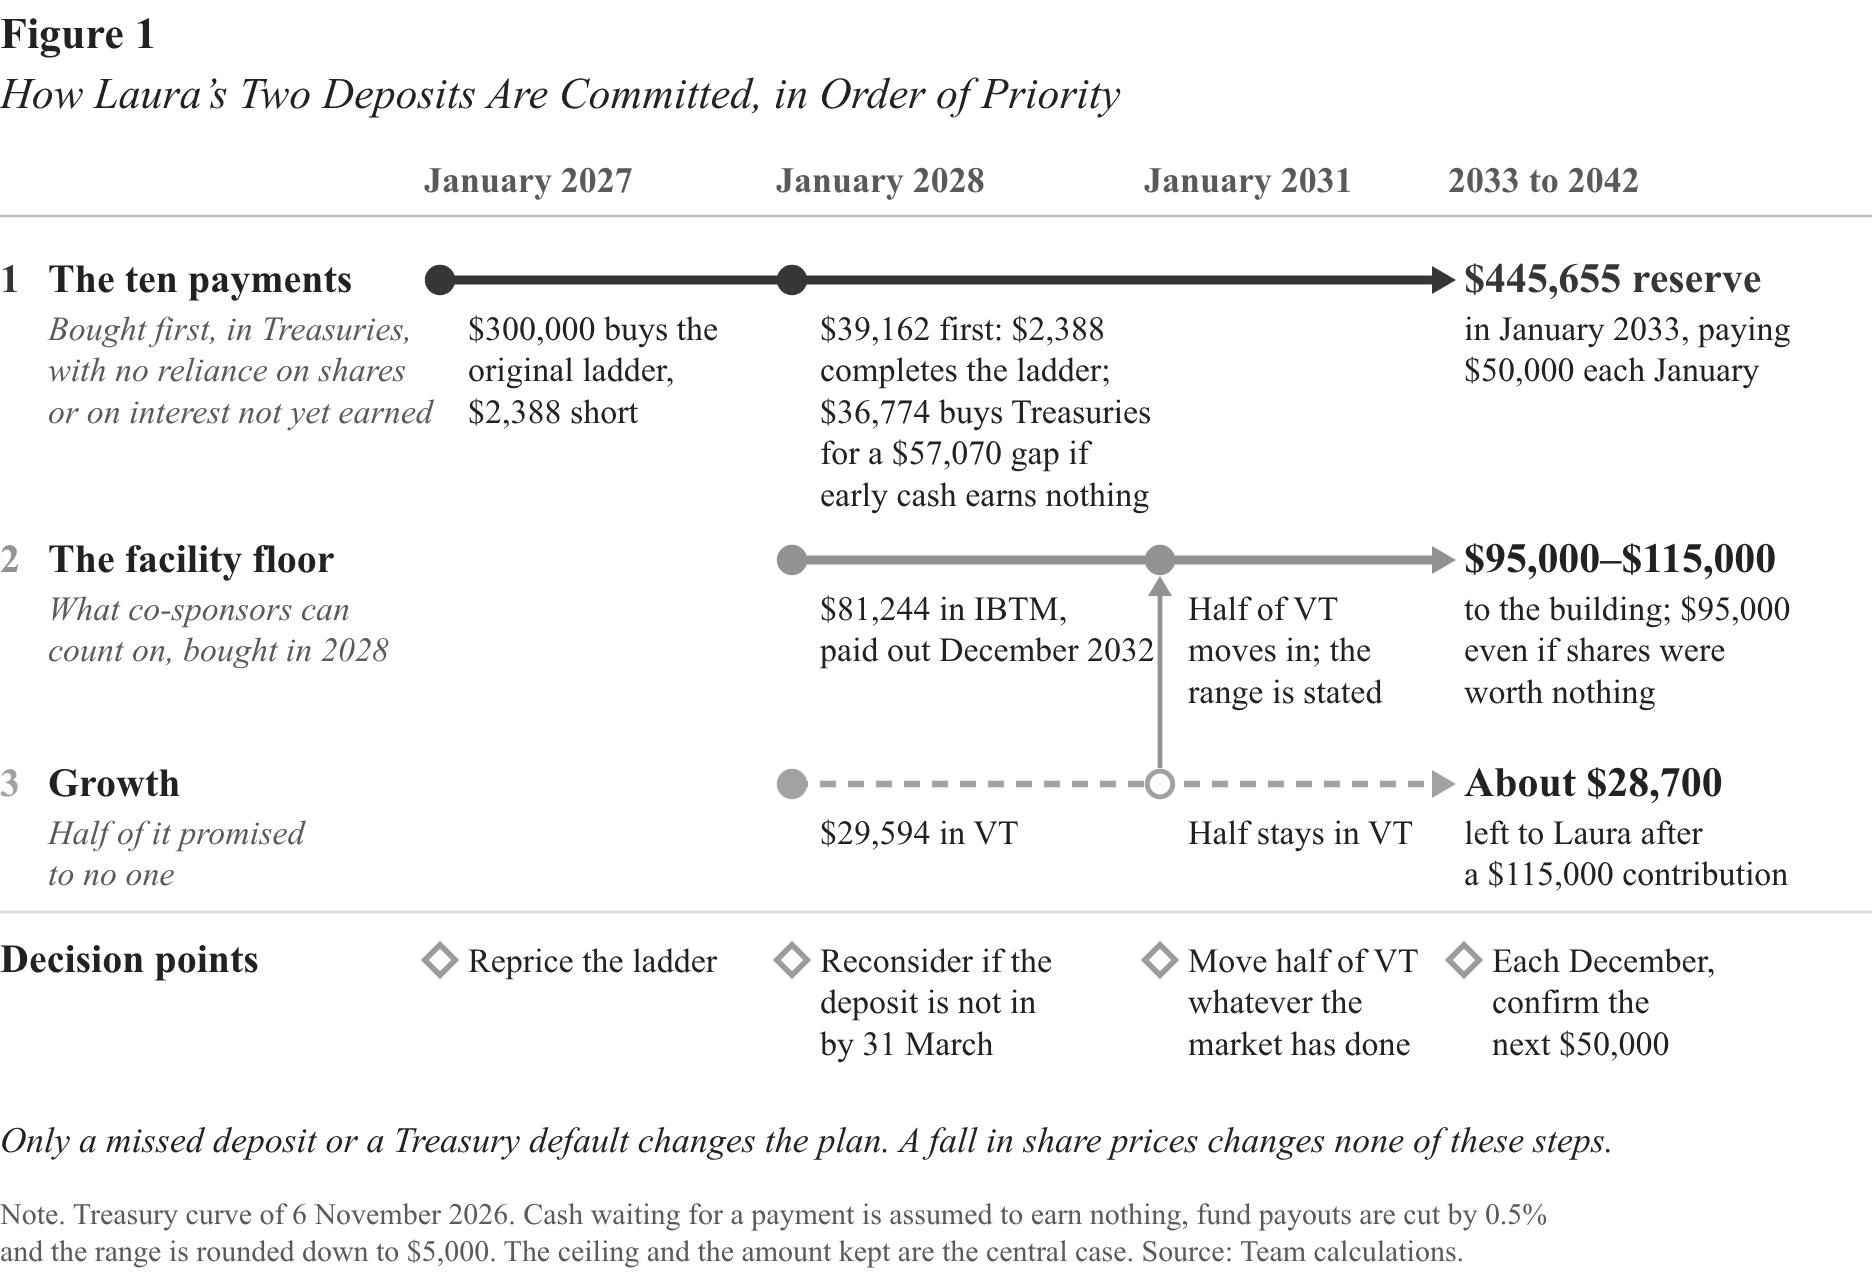
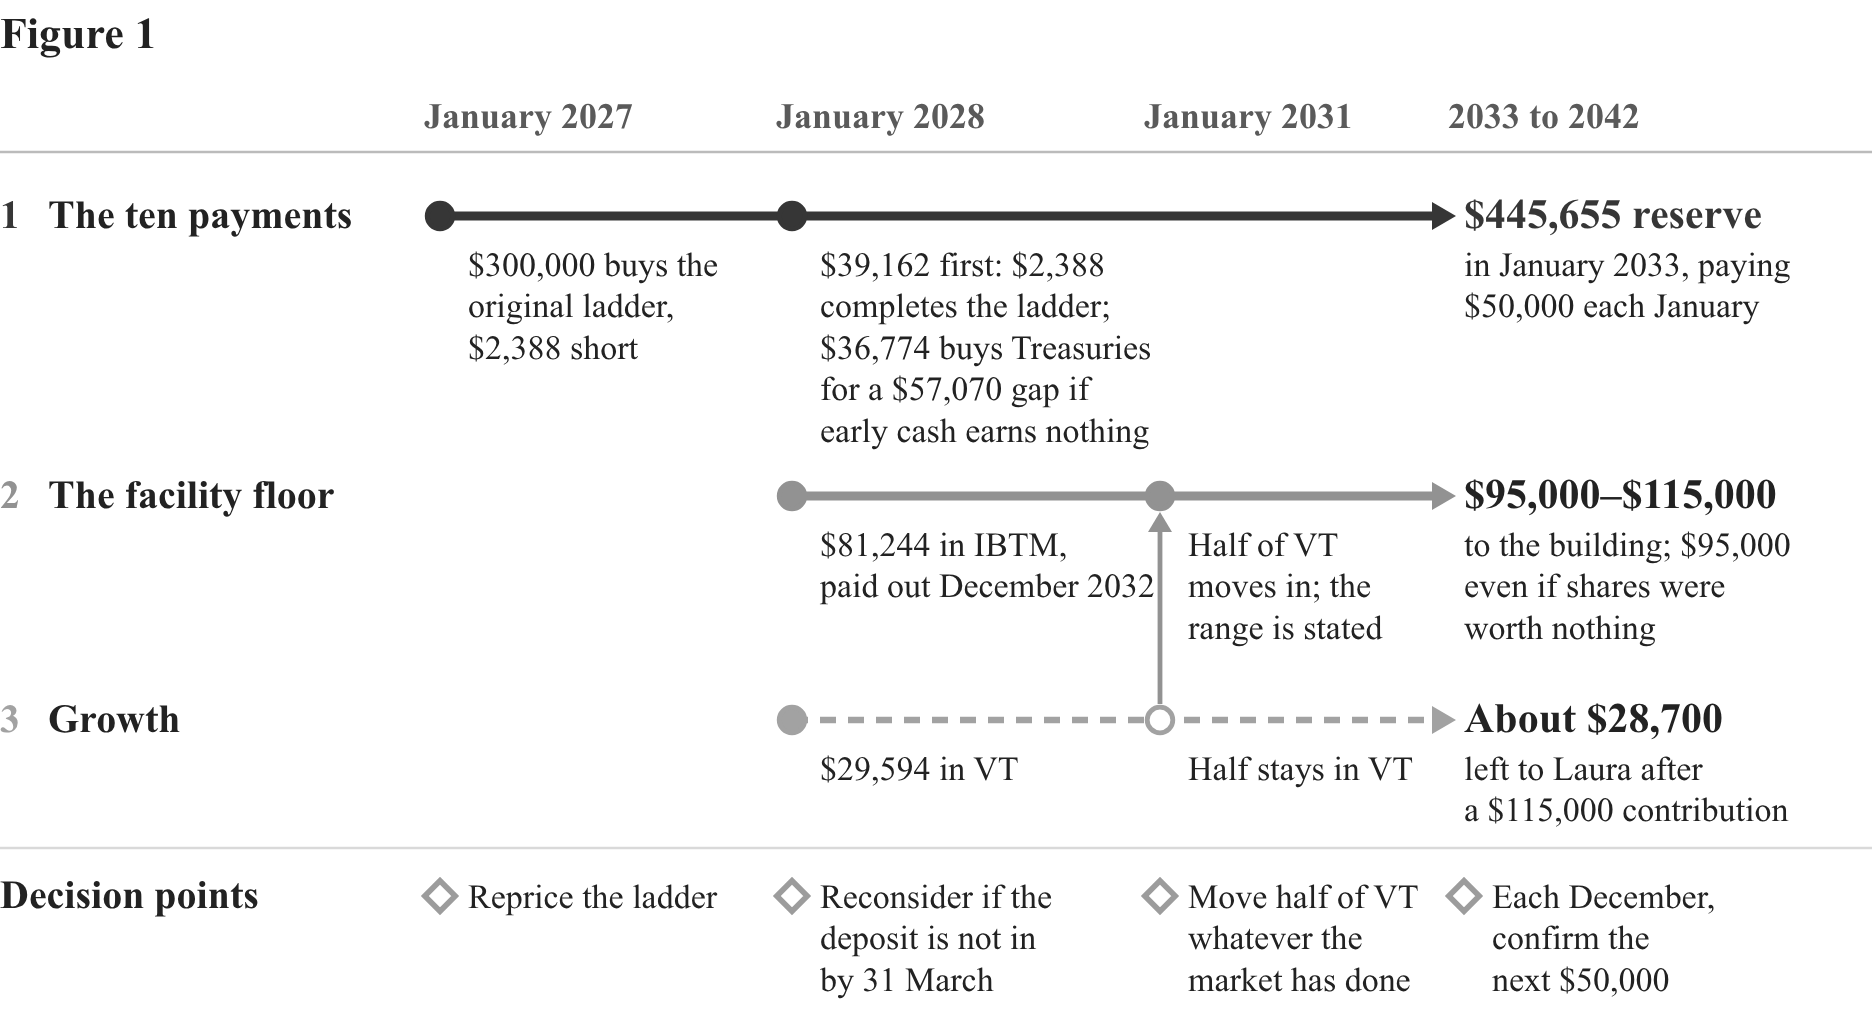
Figure 1 flowchart: title only, no lane subtitles, note or closing sentence
Claude-Session: https://claude.ai/code/session_01VfCtEvW51v5yKAUtcNmmV9

diff --git a/keel/final_report/charts/flowchart/comp_a.py b/keel/final_report/charts/flowchart/comp_a.py
@@ -7,7 +7,6 @@ b.append(ln(0, 54, W, 54, "#BBBBBB", 0.6))
 def lane(y, num, name, why, c, x0, dash=None, w=2.2):
     b.append(t(0, y + 3, f"{num}", 10, "bold", fill=c))
     b.append(t(12, y + 3, name, 10, "bold"))
-    b.append(lines(12, y + 15, why, 8.5, st="italic", fill=MUTE))
     b.append(ln(x0, y, X[3] - 8, y, c, w, dash))
     b.append(f'<path d="M{X[3]-8} {y-3.5} L{X[3]-2} {y} L{X[3]-8} {y+3.5} Z" fill="{c}"/>')
 # lane 1
@@ -47,6 +46,6 @@ for x, rows in [(X[0], ["Reprice the ladder"]),
                 (X[3], ["Each December,", "confirm the", "next $50,000"])]:
     b.append(diamond(x, yd, 3.8))
     b.append(lines(x + 7, yd + 3, rows, 8.5))
-b.append(t(0, yd + 48, "Only a missed deposit or a Treasury default changes the plan. A fall in share prices changes none of these steps.", 9, st="italic"))
-b.append(lines(0, yd + 66, NOTE, 7.5, fill=MUTE))
-open("comp_a.svg", "w").write(svg(yd + 80, "".join(b), "Figure 1", "How Laura’s Two Deposits Are Committed, in Order of Priority"))
+body = '<g transform="translate(0,-16)">' + "".join(b) + "</g>"
+h = yd + 34 - 16
+open("comp_a.svg", "w").write(f'<svg xmlns="http://www.w3.org/2000/svg" width="{W}pt" height="{h}pt" viewBox="0 0 {W} {h}"><rect width="{W}" height="{h}" fill="#fff"/>' + t(0, 12, "Figure 1", 11, "bold") + body + "</svg>")
